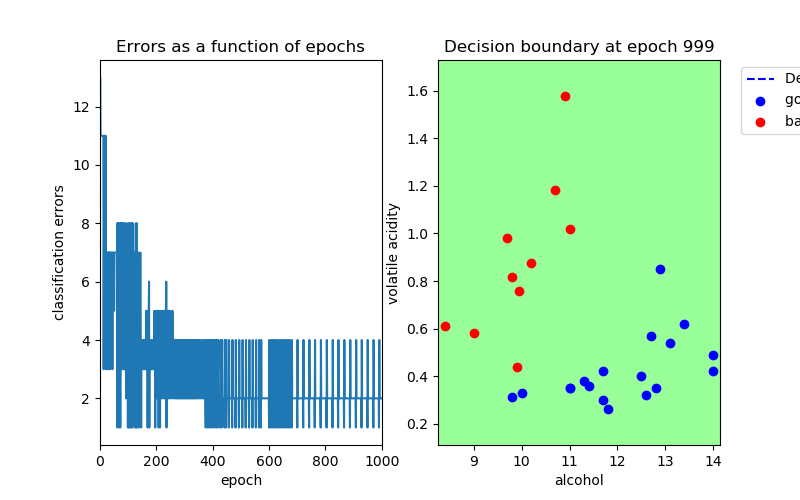
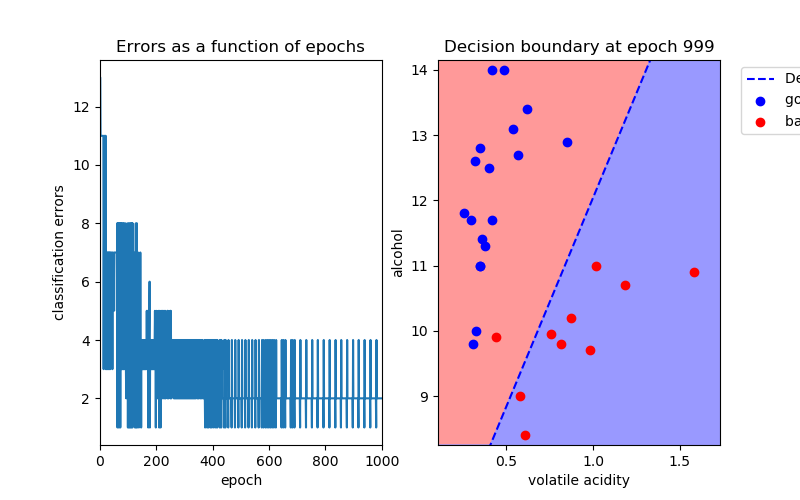
|plot-animation.gif | DONE |

diff --git a/src/plotVisualization.py b/src/plotVisualization.py
@@ -1,28 +1,4 @@
-from dataVisualization import check_quality
 import matplotlib.pyplot as plt
-import pandas as pd
-
-def array_init(shape, mode='rand'):
-    if mode not in ['rand', 'zeros', 'ones']:
-        raise ValueError('invalid mode')
-    new_shape = shape
-    if isinstance(shape, int):
-        new_shape = (shape, 1) 
-    if isinstance(shape, tuple) and len(shape) == 1:
-        new_shape = (shape[0], 1)
-    base_dict = dict()
-    for i in range(new_shape[1]):
-        if mode == 'rand':
-            base_dict[i] = [0.0001 * random.uniform(-1, 1) for i in range(new_shape[0])]
-        elif mode == 'zeros':
-            base_dict[i] = new_shape[0] * [0.0]
-        elif mode == 'ones':
-            base_dict[i] = new_shape[0] * [1.0]
-    df = pd.DataFrame.from_dict(base_dict)
-    if isinstance(shape, int) or isinstance(shape, tuple) and len(shape) == 1:
-        return df.values.squeeze()
-    return df.values
-
 
 def draw_num_errors(ax, performance, epoch):
     epochs = [elem[0] for elem in performance[:epoch + 1]]
@@ -42,43 +18,50 @@ def draw_decision_boundary(ax, performance, epoch, data, features):
     
     ax.set_title('Decision boundary at epoch %d' %(epoch))
     ax.set_xlabel(features[0])
-    ax.set_xlim([x_min, x_max])
     ax.set_ylabel(features[1])
-    ax.set_ylim([y_min, y_max])
-    
+        
     w2, w1 = performance[epoch][2]
     b = performance[epoch][3]
-    slope = -w1/w2
-    intercept = -b/w2
+    
     x_coords = range(int(x_min) - 1, int(x_max) + 2)
-    y_coords = slope * x_coords + intercept
+    y_coords = [-b/ w2 + -w1 / w2 * item for item in x_coords]
 
+    ax.set_xlim([x_min, x_max])
+    ax.set_ylim([y_min, y_max])
     ax.plot(x_coords, y_coords, 'b--', label='Decision boundary')
-    ax.fill_between(x_coords, y_coords, y_min, color='#99ff99')
-    ax.fill_between(x_coords, y_coords, y_max, color='#ff9999')
+    ax.fill_between(x_coords, y_coords, y2=y_max, color='#ff9999')
+    ax.fill_between(x_coords, y_coords, y2=y_min, color='#9999ff')
 
 
-def draw_scatter(ax, data, features, good_thresh, bad_thresh):
-    good_wines, bad_wines = check_quality(data)
+def draw_scatter(ax, data, features, good_treshold, bad_treshold):
+    good_wines = data[data['quality'] > good_treshold]
+    bad_wines = data[data['quality'] < bad_treshold]
     ax.scatter(good_wines.loc[:, features[0]], good_wines.loc[:, features[1]],
-                    c='blue', label='good wines (> %d score)' % (good_thresh))
+                    c='blue', label='good wines (> %d score)' % (good_treshold))
     ax.scatter(bad_wines.loc[:, features[0]], bad_wines.loc[:, features[1]],
-                    c='red', label='bad wines (< %d score)' % (bad_thresh))
+                    c='red', label='bad wines (< %d score)' % (bad_treshold))
     ax.legend(bbox_to_anchor=(1.05, 1), loc=2)
 
     
-def plot_performance(performance, data, features, good_thresh, bad_thresh,
+def plot_performance(performance, data, features, good_treshold, bad_treshold,
                      epoch=-1, save_plot=False, save_name='../images/performance-plot.png'):
-    figure, axes = plt.subplots(nrows=1, ncols=2, figsize=(8, 5))
+    figure, axes = plt.subplots(1, 2, figsize=(8, 5))
+    
     if epoch > len(performance) - 1:
         raise ValueError('number of epochs should be less than %d' % (len(performance)))
+    
     if len(features) != 2:
         raise ValueError('number of features should be 2')
+    
     if epoch == -1:
         epoch = len(performance) - 1
+    
     draw_num_errors(axes[0], performance, epoch)    
+    
     draw_decision_boundary(axes[1], performance, epoch, data, features)
-    draw_scatter(axes[1], data, features, good_thresh, bad_thresh)
+    
+    draw_scatter(axes[1], data, features, good_treshold, bad_treshold)
+    
     if save_plot:
         plt.savefig(save_name)
     plt.close(figure)

diff --git a/src/fitPerceptron.py b/src/fitPerceptron.py
@@ -10,7 +10,7 @@ def dataCleaning(data):
     data = data.assign(highQ = pd.Series(data['quality'] > 5))
     features = ['quality', 'alcohol', 'highQ', 'volatile acidity']
     samples = data[(data['quality'] < 4) | (data['quality'] > 7)][features]
-    print(samples)
+    samples = samples.reset_index(drop=True)
     Y = samples['highQ'].values
     X = samples.loc[:,['alcohol', 'volatile acidity']]
     return X, Y, samples
@@ -21,13 +21,8 @@ def main():
     X, Y, samples = dataCleaning(data)
     model = Perceptron(lr = 0.005)
     training_statistics = model.fit(X.values, Y, epochs = 1000, verbose = True, seed = 29)
-    print("|length og statistics| %d |" % (len(training_statistics)))
-    i = 0
-    for row in training_statistics:
-        i += 1
-        print("|%d|" %(i), row)
-    plot_performance(training_statistics, samples, ['alcohol', 'volatile acidity'], 7, 4, 999, True)
-    save_animation(training_statistics, samples, ['alcohol', 'volatile acidity'], 7, 4)
+   # plot_performance(model.performance, samples, ['volatile acidity', 'alcohol'], 7, 4, 300, True)
+    save_animation(model.performance, samples, ['volatile acidity', 'alcohol'], 7 , 4 )
    # accuracy = model.evaluation(X.values, Y)
 
 

diff --git a/src/dataAnimation.py b/src/dataAnimation.py
@@ -1,7 +1,7 @@
 import matplotlib.image as plimg
-from matplotlib.animation import ArtistAnimation, PilloWriter
+from matplotlib.animation import ArtistAnimation, PillowWriter
 import os
-from plotVisualization import plot_performance, array_init
+from plotVisualization import plot_performance
 import matplotlib.pyplot as plt
 
 
@@ -20,5 +20,5 @@ def save_animation(performance, data, features, good_thresh, bad_thresh):
 
     anim = ArtistAnimation(figure, frames, interval= 100, blit=True, repeat_delay=1000)
     writergif = PillowWriter(fps=30)
-    anim.save('plot-animation.gif', writer=writergif)
+    anim.save('plot-animation-1.gif', writer=writergif)
     print('| DONE | Animation created and saved! ')

diff --git a/src/featureScaling.py b/src/featureScaling.py
@@ -1,0 +1,19 @@
+import pandas as pd
+import matplotlib.pyplot as plt
+
+from  dataVisualization import read_data
+from classPerceptron import Perceptron
+
+def normalize_series(series):
+    if not isinstance(series, pd.Series):
+        raise ValueError('input argument is not an instance of pandas.Series class')
+    return (series - series.mean()) / (series.max() - series.min())
+
+
+def main():
+    data = read_data('../data/winequality-red.csv')
+    X, Y, samples = dataCleaning(data)
+    
+if __name__ == "__main__":
+    main()
+
